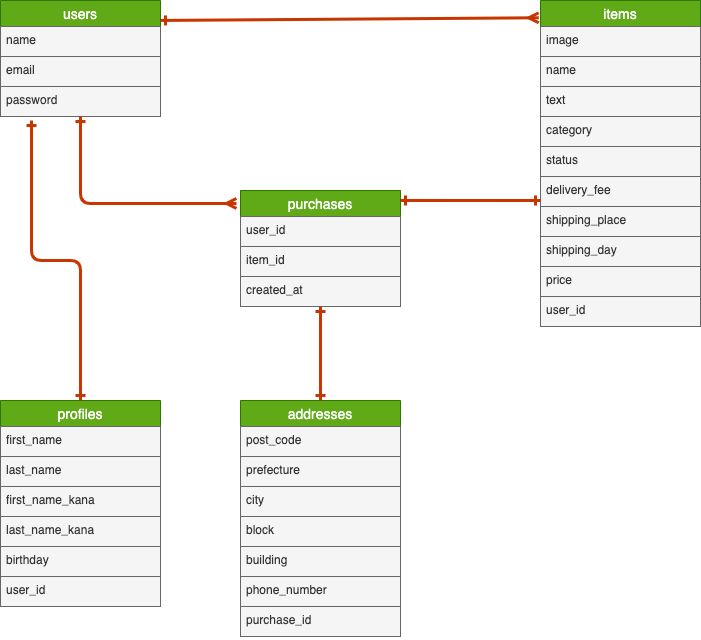
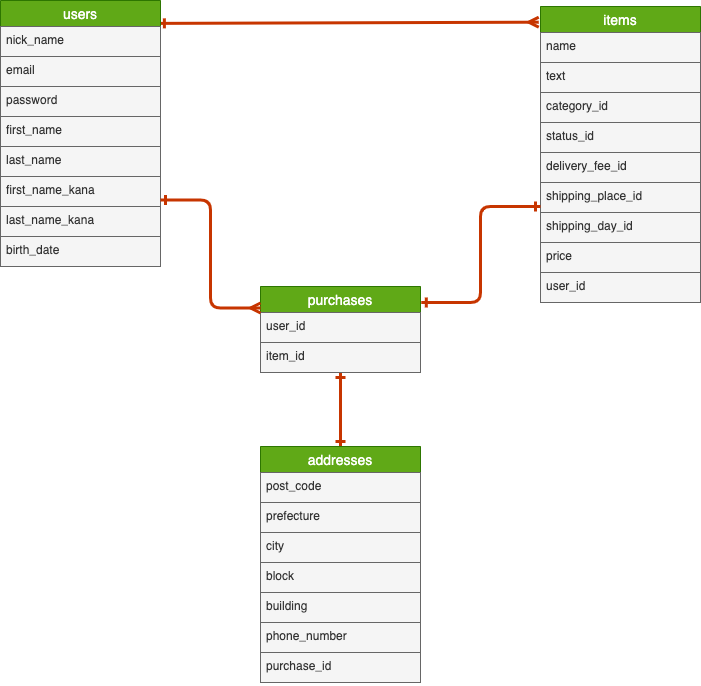
テーブル設計修正-1

Changed region(s): [[0.0, 0.0, 1.0, 1.0], [0.0, 0.4062, 0.2397, 0.9375], [0.2097, 0.1875, 0.2397, 0.2188]]

diff --git a/README.md b/README.md
@@ -1,43 +1,33 @@
 # README テーブル設計
 
 ## users テーブル
-| Column    | Type   | Options                   |
-|-----------|--------|---------------------------|
-| nick_name | string | null: false               |
-| email     | string | null: false, unique: true |
-| password  | string | null: false               |
+| Column          | Type   | Options                   |
+|-----------------|--------|---------------------------|
+| nick_name       | string | null: false               |
+| email           | string | null: false, unique: true |
+| password        | string | null: false               |
+| first_name      | string | null: false               |
+| last_name       | string | null: false               |
+| first_name_kana | string | null: false               |
+| last_name_kana  | string | null: false               |
+| birth_date      | date   | null: false               |
 
 ### Association
 - has_many :items
 - has_many :purchases
-- has_one :profile
-
-## profiles テーブル
-| Column          | Type       | Options                        |
-|-----------------|------------|--------------------------------|
-| first_name      | string     | null: false                    |
-| last_name       | string     | null: false                    |
-| first_name_kana | string     | null: false                    |
-| last_name_kana  | string     | null: false                    |
-| birth_date      | date       | null: false                    |
-| user_id         | references | null: false, foreign_key: true |
-
-### Association
-- belongs_to :user
 
 ## items テーブル
-| Column         | Type       | Options                        |
-|----------------|------------|--------------------------------|
-| image          |            | null: false                    |
-| name           | string     | null: false                    |
-| text           | string     | null: false                    |
-| category       | string     | null: false                    |
-| status         | string     | null: false                    |
-| delivery_fee   | integer    | null: false                    |
-| shipping_place | string     | null: false                    |
-| shipping_day   | date       | null: false                    |
-| price          | integer    | null: false                    |
-| user_id        | references | null: false, foreign_key: true |
+| Column            | Type       | Options                        |
+|-------------------|------------|--------------------------------|
+| name              | string     | null: false                    |
+| text              | string     | null: false                    |
+| category_id       | integer    | null: false                    |
+| status_id         | integer    | null: false                    |
+| delivery_fee_id   | integer    | null: false                    |
+| shipping_place_id | integer    | null: false                    |
+| shipping_day_id   | integer    | null: false                    |
+| price             | integer    | null: false                    |
+| user_id           | references | null: false, foreign_key: true |
 
 ### Association
 belongs_to :user
@@ -48,7 +38,7 @@ has_one :purchase
 |------------|-----------|---------------------------------|
 | user_id    | references | null: false, foreign_key: true |
 | item_id    | references | null: false, foreign_key: true |
-| created_at | date       | nul: false                     |
+
 
 ### Association
 belongs_to :user
@@ -56,15 +46,15 @@ belongs_to :item
 has_one :address
 
 ## addresses テーブル
-| Column      | Type       | Option                         |
-|-------------|------------|--------------------------------|
-| post_code   | string     | null: false                    |
-| prefecture  | string     | null: false                    |
-| city        | string     | null: false                    |
-| block       | string     | null: false                    |
-| building    | string     | null: false                    |
-| phon_number | integer    | null: false                    |
-| purchase_id | references | null: false, foreign_key: true |
+| Column        | Type       | Option                         |
+|---------------|------------|--------------------------------|
+| post_code     | string     | null: false                    |
+| prefecture_id | integer    | null: false                    |
+| city          | string     | null: false                    |
+| block         | string     | null: false                    |
+| building      | string     |                                |
+| phon_number   | string     | null: false                    |
+| purchase_id   | references | null: false, foreign_key: true |
 
 ### Association
 belongs_to :purchase
